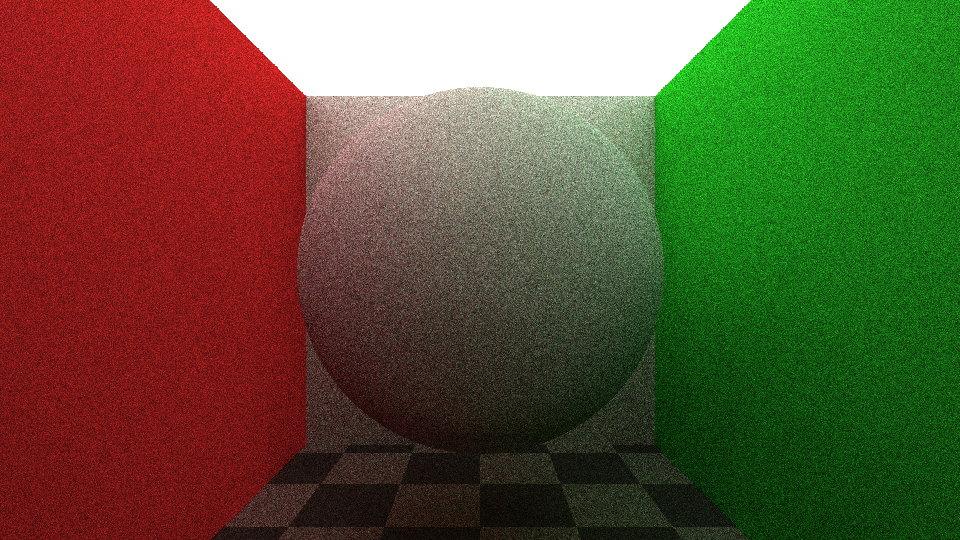
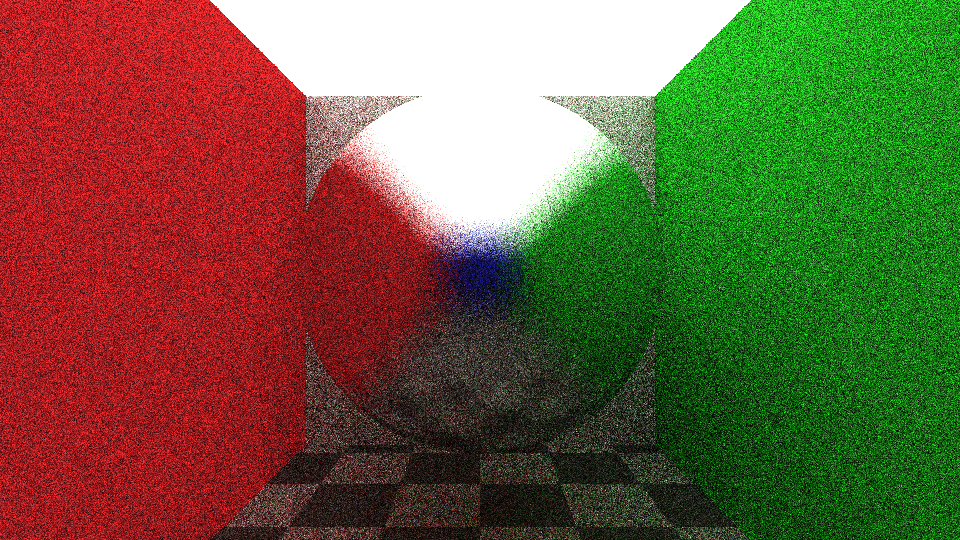
verson 2.2

diff --git a/main.py b/main.py
@@ -3,6 +3,7 @@ from pygame.math import Vector3 as vec3
 import numpy as np
 from math import pi
 from time import time
+from datetime import datetime
 
 from Sphere import Sphere
 from Plane import Plane
@@ -10,7 +11,7 @@ from Plane import Plane
 from raytracing import emitRay, rayTracing
 from Camera import Camera
 
-from functions import clamp
+from functions import clamp, mul
 from data import setting
 from save import Save
 
@@ -25,14 +26,18 @@ objects = [
     Plane(vec3(0,0,4),vec3(0,0,-1),vec3(0.2,1,0.2)),
     Plane(vec3(0,0,-4),vec3(0,0,-1),vec3(1,0.2,0.2)),
     Plane(vec3(8,0,0),vec3(-1,0,0),vec3(1,1,1)),
-    Plane(vec3(-4,0,0),vec3(1,0,0),vec3(0)),
+    Plane(vec3(-10,0,0),vec3(1,0,0),vec3(0.2,0.2,1)),
 
     Sphere(vec3(4,0,0), 2.5, vec3(1)),
 ]
 
 objects[0].material.isChessColored = True
 objects[1].material.glowing = 1.5
+objects[6].material.roughness = 0.2
+objects[6].material.albedo = 0.95
+objects[6].material.reflectance = vec3(0.95, 0.93, 0.88)
 
+print("\n\n", datetime.now().strftime("%H:%M:%S"))
 startTime = time()
 
 for y in range(setting['height']):
@@ -41,13 +46,21 @@ for y in range(setting['height']):
 
         result = vec3(0)
         for iter in range(1, setting['triesPerPixel']+1):
-            color = rayTracing(origin=camera.pos,direction=direction,figures=objects,bounces=setting['reflections'])[1]
-            result += color / setting['triesPerPixel']
+            ray = rayTracing(origin=camera.pos,direction=direction,figures=objects,bounces=setting['reflections'])
+            color, light = ray[0], ray[1]
+            result += light / setting['triesPerPixel']
 
         image[y][x][0] = clamp(0,int(result.x*255),255)
         image[y][x][1] = clamp(0,int(result.y*255),255)
         image[y][x][2] = clamp(0,int(result.z*255),255)
 
-print(f"\n\nCalculations took {time()-startTime:.2f} seconds\n\n")
+print(f"\n\n{datetime.now().strftime("%H:%M:%S")}\n\nCalculations took {time()-startTime:.2f} seconds\n\n")
 
 Save(image)
+
+
+"""
+    1. why is an object is red, and it glows white, it glows red? it shouldn't be like that, i think
+    2. bright light sources look weird
+    3. rectangles in the picture, are connected with setting in some way, i change setting and they change their form and size
+"""

diff --git a/raytracing.py b/raytracing.py
@@ -1,4 +1,4 @@
-from functions import getRandomVector, mul
+from functions import getRandomVector, mul, SchlicksApproximation
 from pygame.math import Vector3 as vec3
 from random import random
 from data import setting
@@ -21,8 +21,6 @@ def rayTracing(origin,direction,figures,entryColor:vec3=vec3(1),bounces:int=0,re
     
     n *= ray[1].material.albedo
 
-    color = mul(color,ray[1].material.color * n)
-    
     # chess like plane
     if ray[1].material.isChessColored:
         pos = origin + direction*ray[0]
@@ -30,8 +28,18 @@ def rayTracing(origin,direction,figures,entryColor:vec3=vec3(1),bounces:int=0,re
             color = mul(color,ray[1].material.color * n)
         else:
             color = mul(color,ray[1].material.color / 2 * n)
+    else:
+        color = mul(color,ray[1].material.color * n)
 
-    incomingLight += (ray[1].material.glowing * color)
+
+    incomingLight += mul((ray[1].material.glowing * ray[1].material.glowingColor), color)
+
+    # blackout depending on the angle of ray incidence
+    #attenuation - ослабление, затухание
+    pos = origin + direction*ray[0]
+    normal = ray[1].getNormal(pos)
+    incomingLight = SchlicksApproximation(direction.normalize(),normal.normalize(),ray[1].material.reflectance,incomingLight)
+    # incomingLight = mul(incomingLight, attenuation)
     
     if bounces > 0:
         # reflect the light

diff --git a/Material.py b/Material.py
@@ -6,10 +6,14 @@ class Material:
     albedo: float = None
     glowing: float = None
     isChessColored: bool = False
+    reflectance: vec3 = None
+    glowingColor: vec3 = None
     
-    def __init__(self, color:vec3=vec3(1), roughness:float=1, albedo:float=0.9, glowing:float=0, isChessColored:bool=False):
+    def __init__(self, color:vec3=vec3(1), roughness:float=1, albedo:float=0.9, glowing:float=0, isChessColored:bool=False,reflectance:vec3=vec3(1), glowingColor:vec3=vec3(1)):
         self.color = color
         self.roughness = roughness
         self.albedo = albedo
         self.glowing = glowing
         self.isChessColored = isChessColored
+        self.reflectance = reflectance
+        self.glowingColor = glowingColor

diff --git a/functions.py b/functions.py
@@ -17,3 +17,14 @@ def clamp(minValue:float,value:float,maxValue:float):
 
 def mul(a: vec3, b: vec3):
     return vec3(a.x * b.x, a.y * b.y, a.z * b.z)
+
+def SchlicksApproximation(rayDir:vec3,normal:vec3,reflectance:vec3,incomingLight:vec3):
+    # 1. Calculate the cosine of the angle
+    cos_theta = clamp(0,normal.dot(-rayDir),1)
+
+    # 2. Apply Schlick's Approximation
+    R0 = reflectance # Gold
+    F = R0 + (vec3(1.0) - R0) * pow(1.0 - cos_theta, 5)
+
+    # 3. Use F to tint the reflected ray
+    return mul(F, incomingLight)

diff --git a/save.py b/save.py
@@ -3,10 +3,10 @@ import numpy as np
 
 def Save(image,floats:bool=False):
     if floats:
-        for y in range(len(image)):
-            for x in range(len(image[0])):
-                for c in range(len(image[0][0])):
-                    image[y][x][c] = np.uint8(255 * image[y][x][c])
+        for y in image:
+            for x in y:
+                for c in x:
+                    c: np.uint8 = int(c*255)
                     
     img = Image.fromarray(image)
     img.save("result.png")
